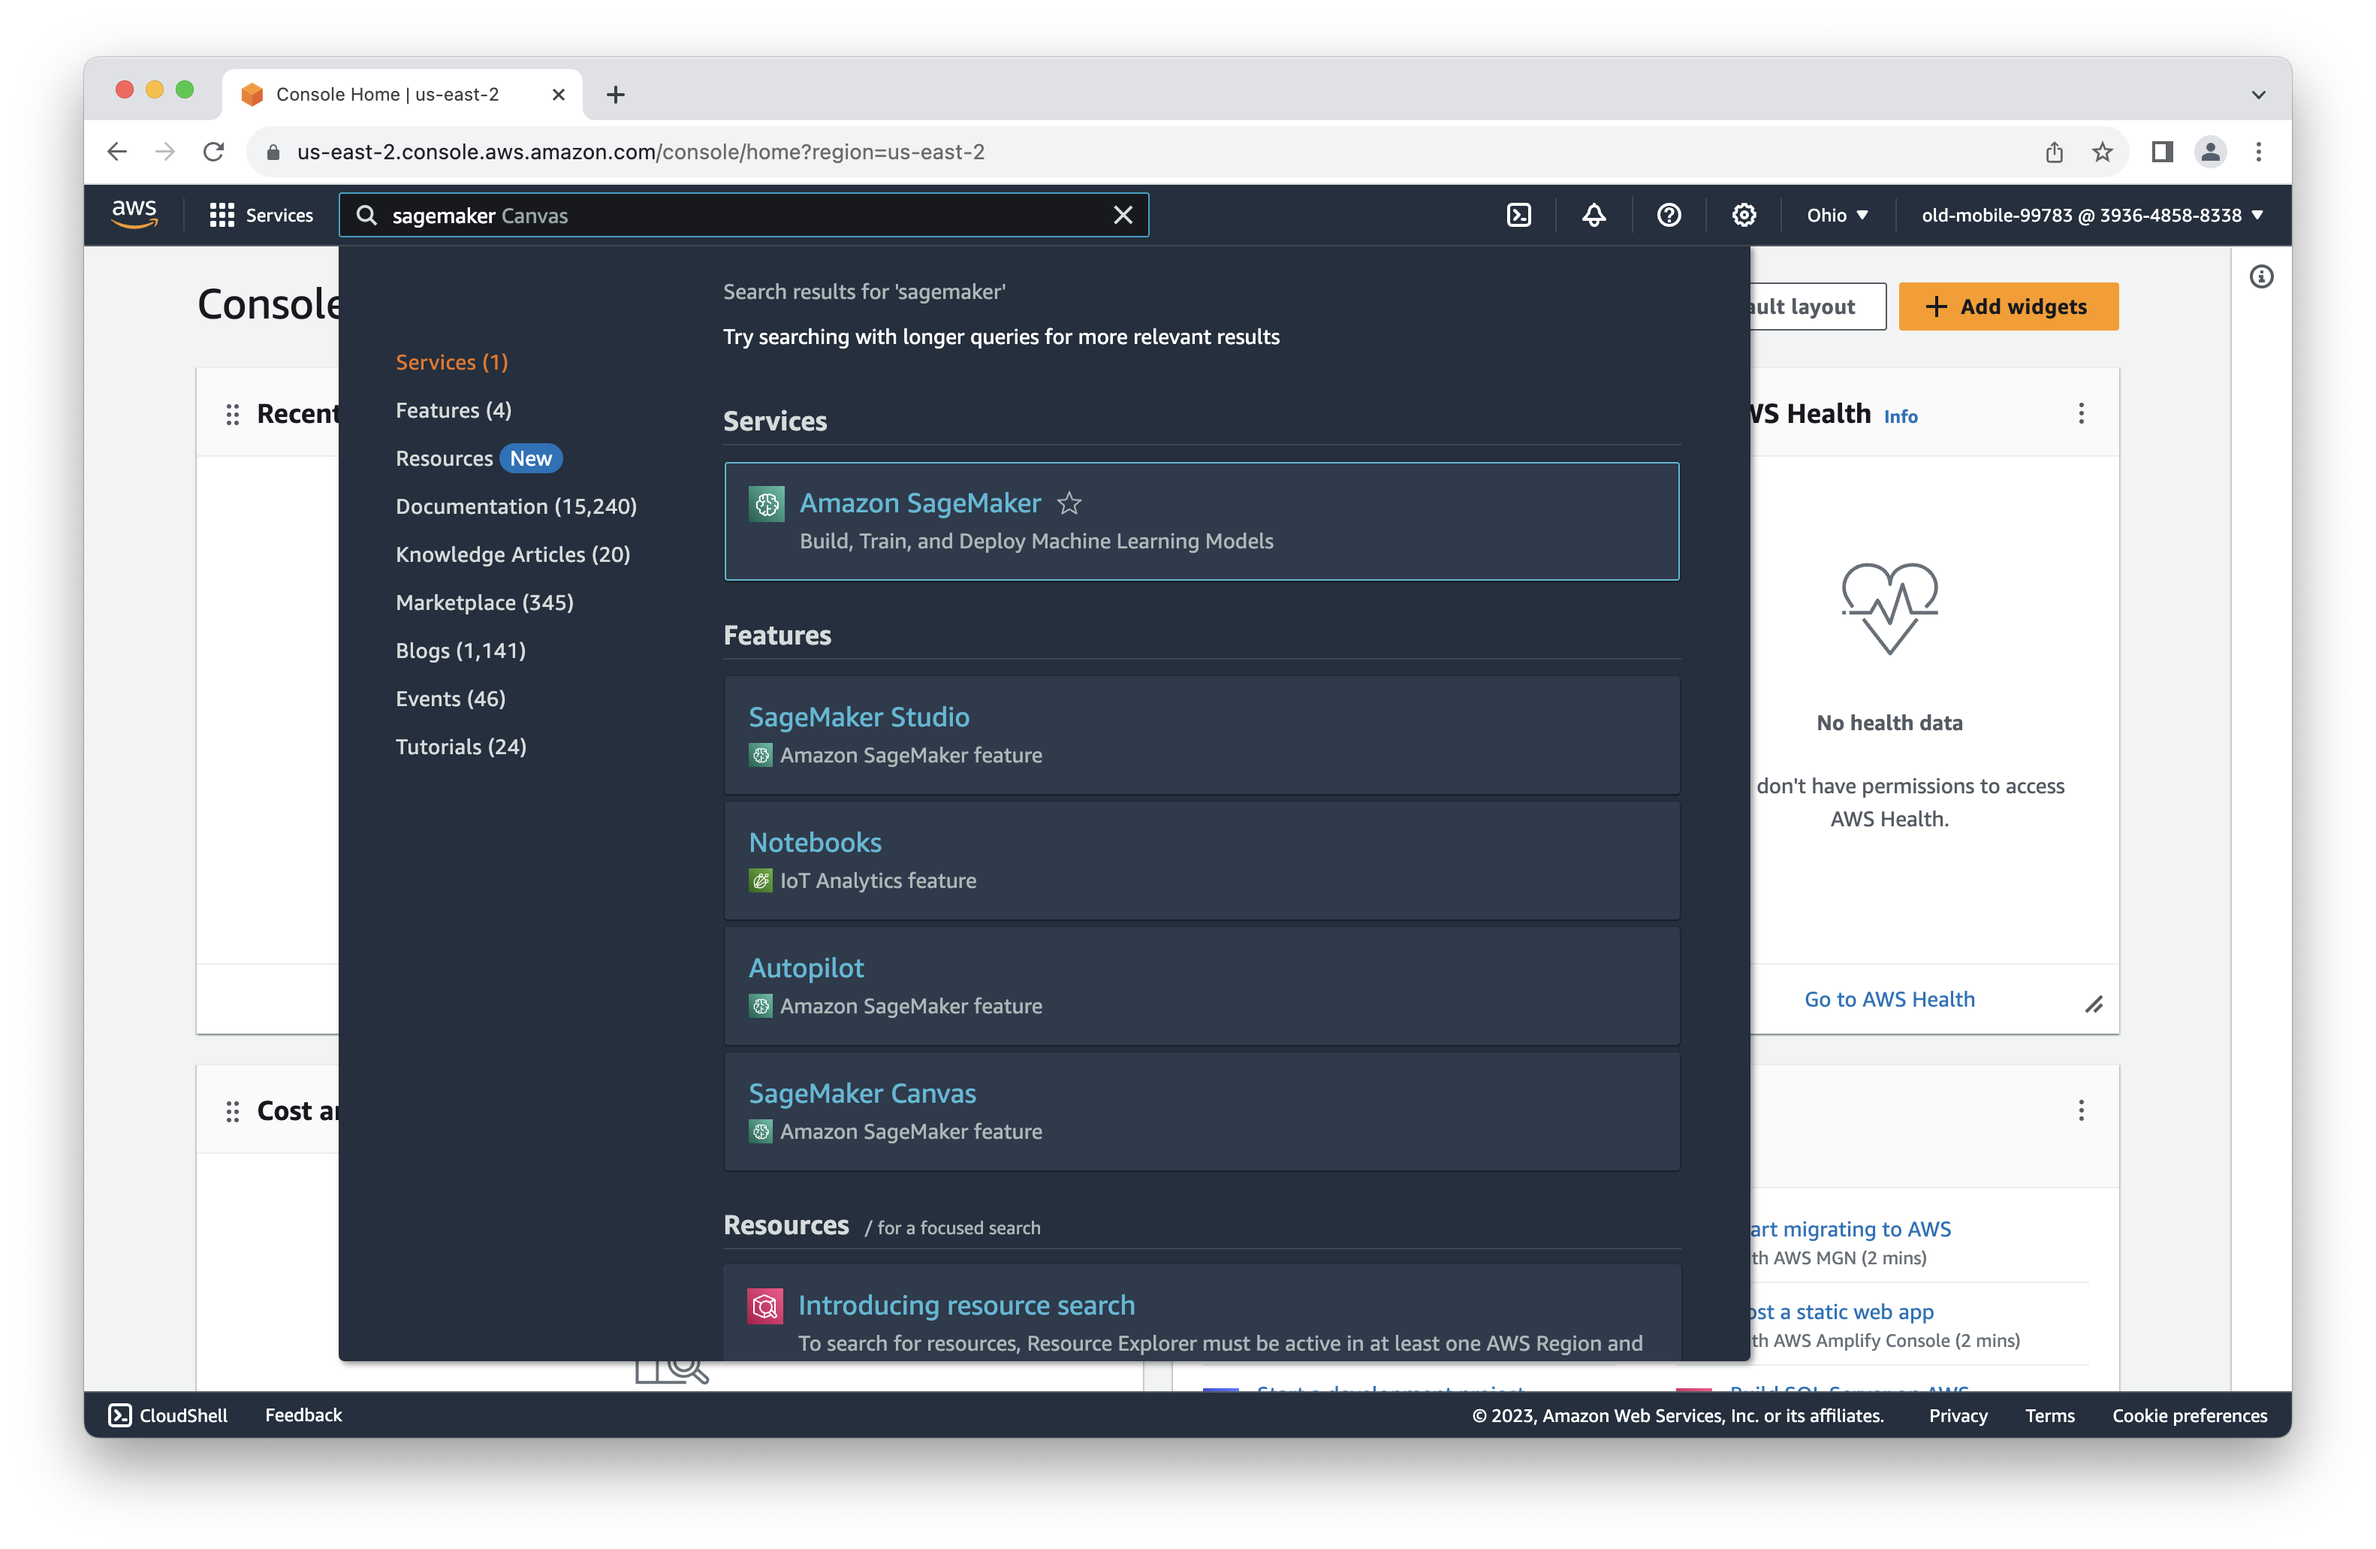
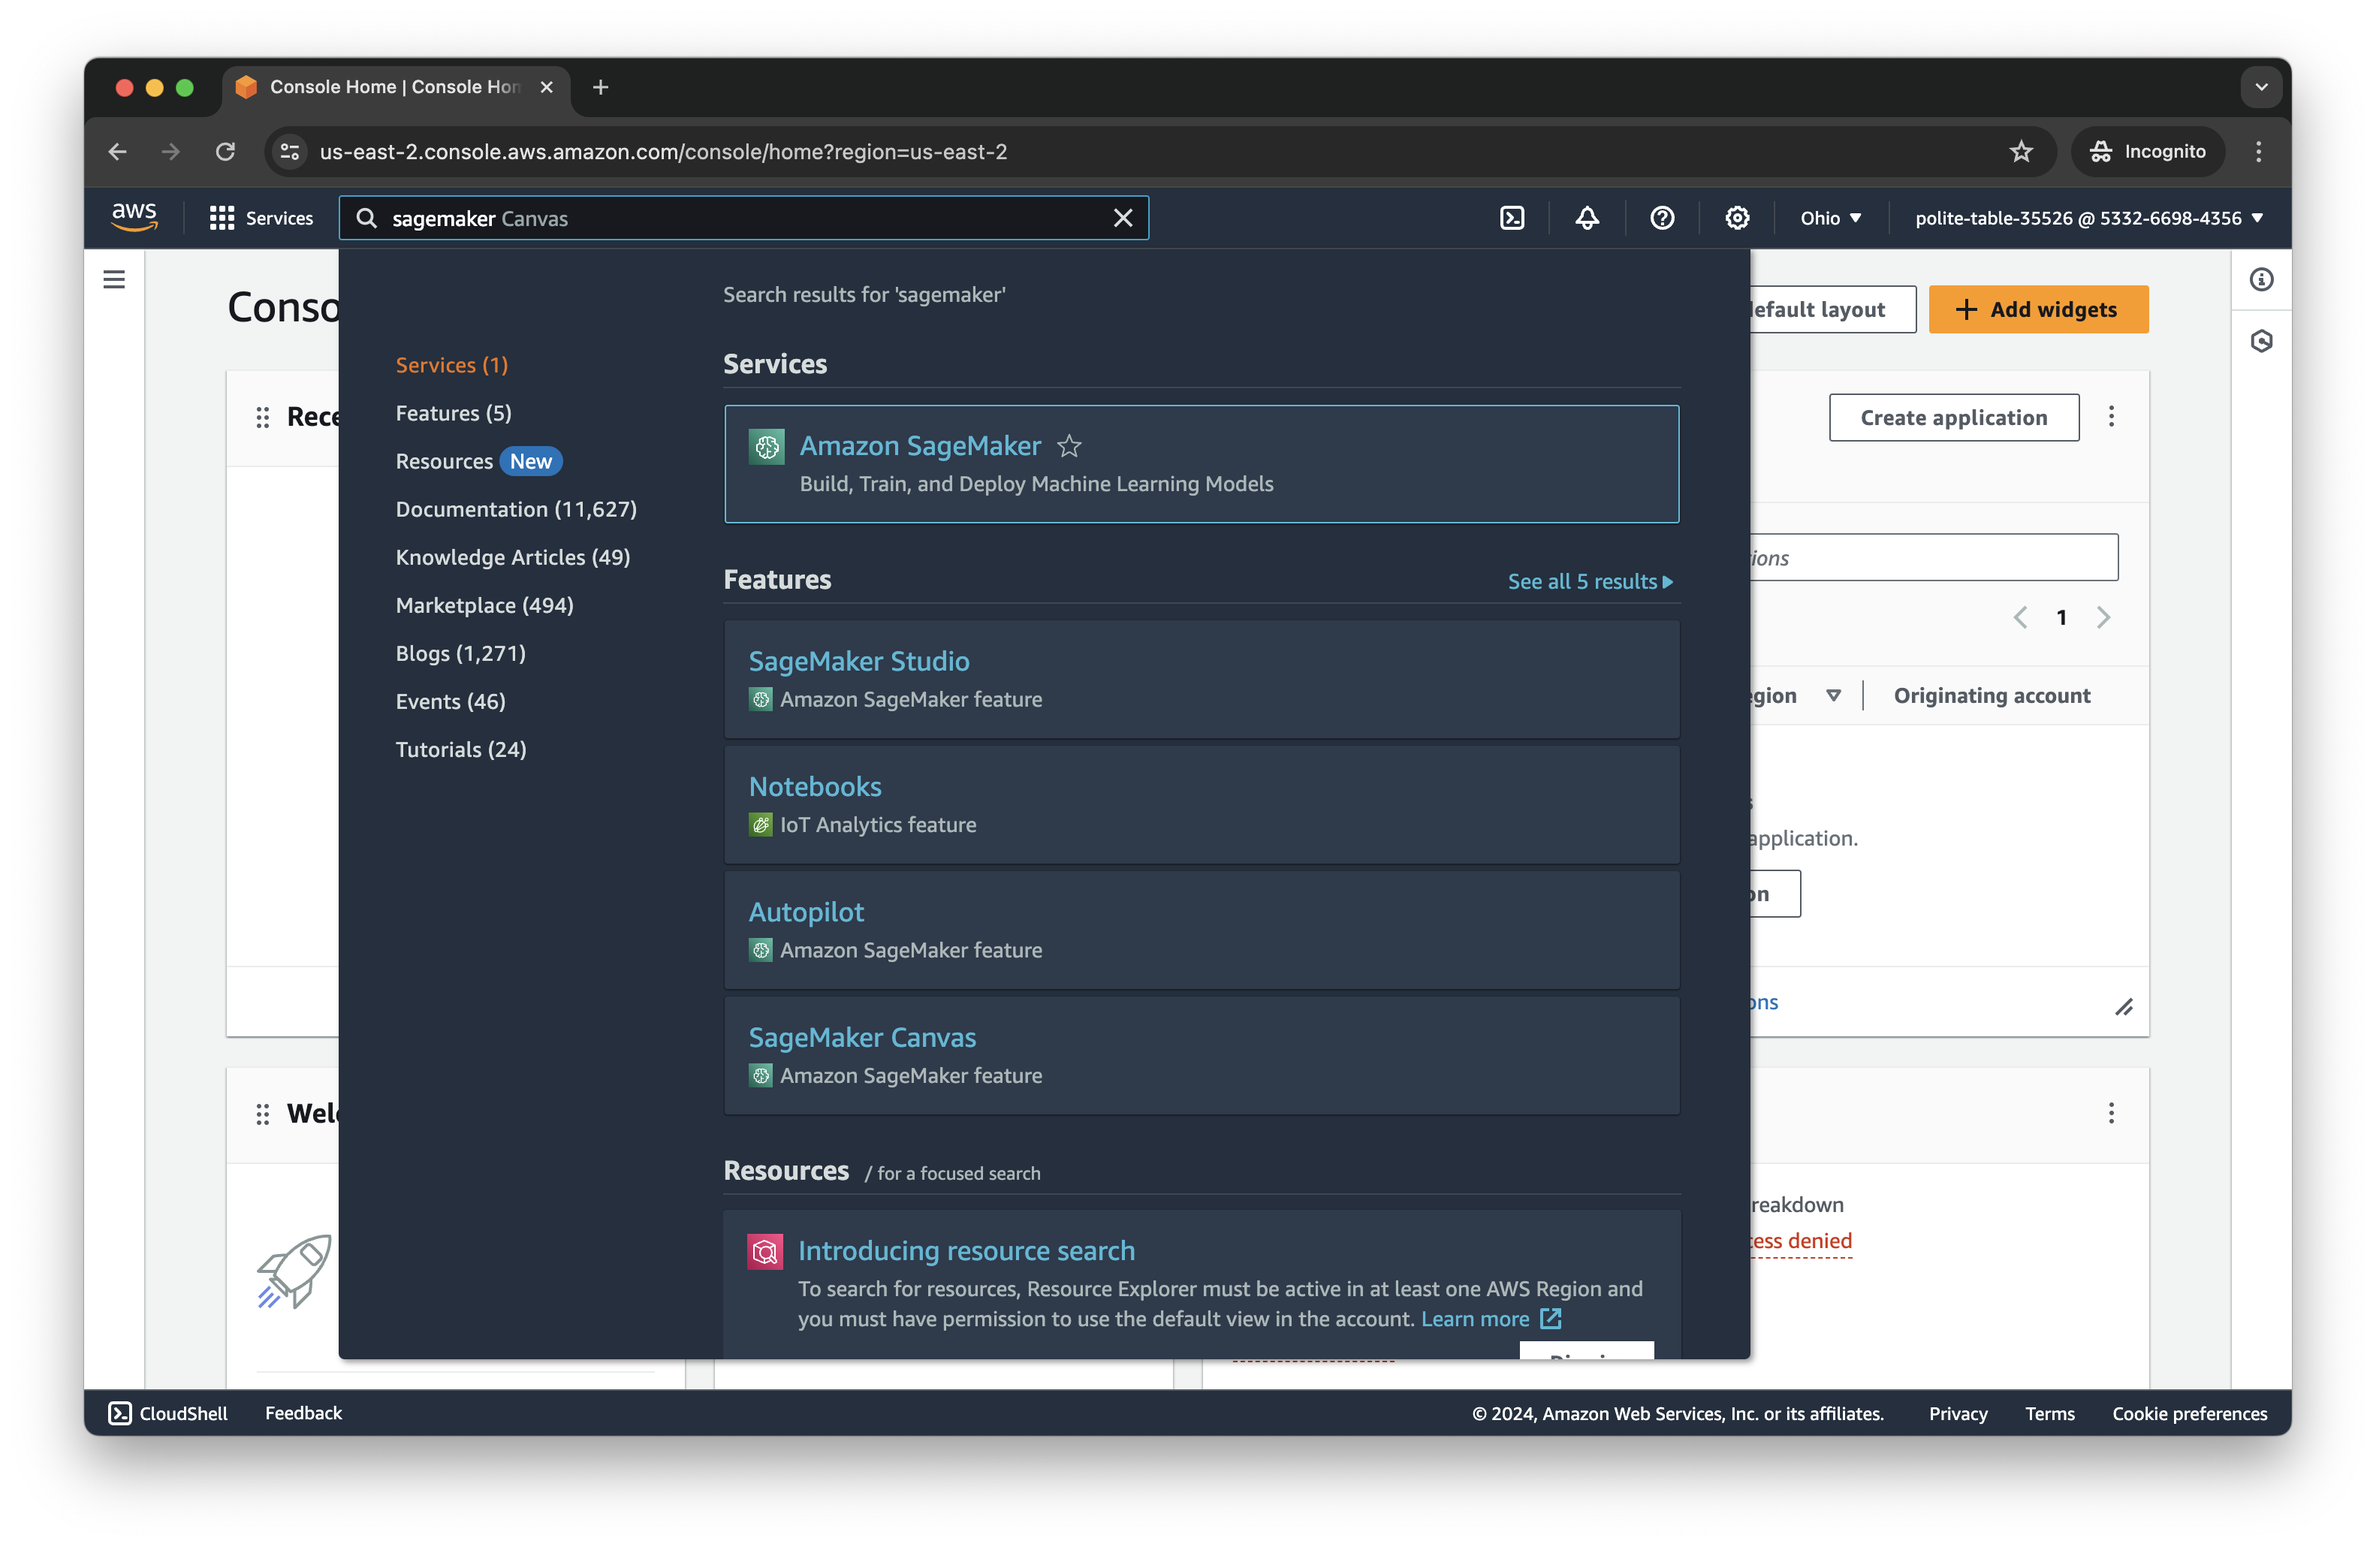
update lab 5 screenshots

diff --git a/Lab 5 - Parsing Data/README.md b/Lab 5 - Parsing Data/README.md
@@ -20,49 +20,60 @@ You'll see a message that setup is in progress.
 
 ![](images/04.png)
 
-Once it finishes, you'll see a message saying "The SageMaker Domain is ready."  Next to the default user, click "Launch" and select "Studio" under that.  You'll be put through a few redirects.
-
-If the default user isn't shown, you may need to refresh the screen.
-You will be landing in the Studio screen below.
+Then you'll be redirected into SageMaker.
 
 ![](images/05.png)
 
-Click on the button with orange background - "Jupyter Lab".
+Once it finishes, you'll see a message saying "The SageMaker Domain is ready."  Next to the default user, click "Launch" 
 
 ![](images/06.png)
 
-From the top right, click on "Create JupyterLab Space" button.
+Then select "Studio" under that.  You'll be put through a few redirects.
 
 ![](images/07.png)
 
-Provide a name for your Jupyter Lab space and click "Create Space"
+Click on the button with orange background - "JupyterLab".
 
 ![](images/08.png)
 
-You will be landing in the page below. Wait for a few seconds to see the "Run space" button enabled.
+From the top right, click on "Create JupyterLab Space" button.
 
 ![](images/09.png)
 
-Leave the default values as-is and click "Run space" button.
+Provide a name for your JupyterLab space, perhaps "sec-edgar."
 
 ![](images/10.png)
 
-After a couple of minutes, you will see the space created and the "Open Jupyter Lab" button enabled. Click that button which will open a new window.
+ and click "Create Space"
+
+![](images/10.png)
+
+You will be landing in the page below. Wait for a few seconds to see the "Run space" button enabled.
 
 ![](images/11.png)
 
-When the widnow is loaded, you'll land in SageMaker Studio.  This is Amazon's hosted notebook environment.
+Click the "Run space" button.
 
 ![](images/12.png)
+
+After a couple of minutes, you will see the space created and the "Open JupyterLab" button enabled. Click that button which will open a new window.
+
+![](images/13.png)
+
+When the widnow is loaded, you'll land in SageMaker Studio.  This is Amazon's hosted notebook environment.
+
+![](images/14.png)
 
 ## Import from GitHub to SageMaker Studio
 For the rest of the labs, we're going to be working with notebooks in SageMaker Studio.  To load them into Studio, we're going to pull them from GitHub using Studio's git integration.
 
 Click on the git icon in the upper left of Studio.  It's below the folder icon on the extreme left of the menu.
 
+![](images/15.png)
+
 Now click "Clone a Repository."
 
-![](images/13.png)
+![](images/16.png)
 
 In the dialog, enter the address of the git file in the repo we've been working with.  That is:
 
@@ -70,24 +81,22 @@ In the dialog, enter the address of the git file in the repo we've been working 
 
 Then click "Clone."
 
-This menu is a little finicky.  On my machine, I had to click on the URL after I pasted it and then click the "Clone" button.  If I didn't I receveived an error.
-
-![](images/14.png)
-
-When complete, it will open the README.md for this repo.  In the file explorer on the left, double click on "Lab 5 - Parsing Data."  Click on "parsing-data.ipynb" to open it.
-
-![](images/15.png)
-
-For image, select "Data Science 3.0."  That will populate the kernel and so on.
-
-![](images/16.png)
-
-Click "Select."
-
 ![](images/17.png)
 
-You'll see a message that the kernel is starting.  It takes a while.  In my case, it was three minutes to start.  Once complete, you should see this.  Now you're all ready to run through this notebook!
+When complete, it will open the README.md for this repo.  In the file explorer on the left, double click on "Lab 5 - Parsing Data."  
 
 ![](images/18.png)
 
-In the next labs, we'll explore further with notebooks.
+Click on "parsing-data.ipynb" to open it.
+
+![](images/19.png)
+
+Keep the default kernel and click "Select." 
+
+![](images/20.png)
+
+Once complete, you should see this.  Now you're all ready to run through this notebook!  To do so, select a cell and then press the play button.  That runs the cell.  You can now work through the notebook running each cell.
+
+![](images/21.png)
+
+In the next labs, we'll explore further, following this same approach of running through notebooks for each lab.
